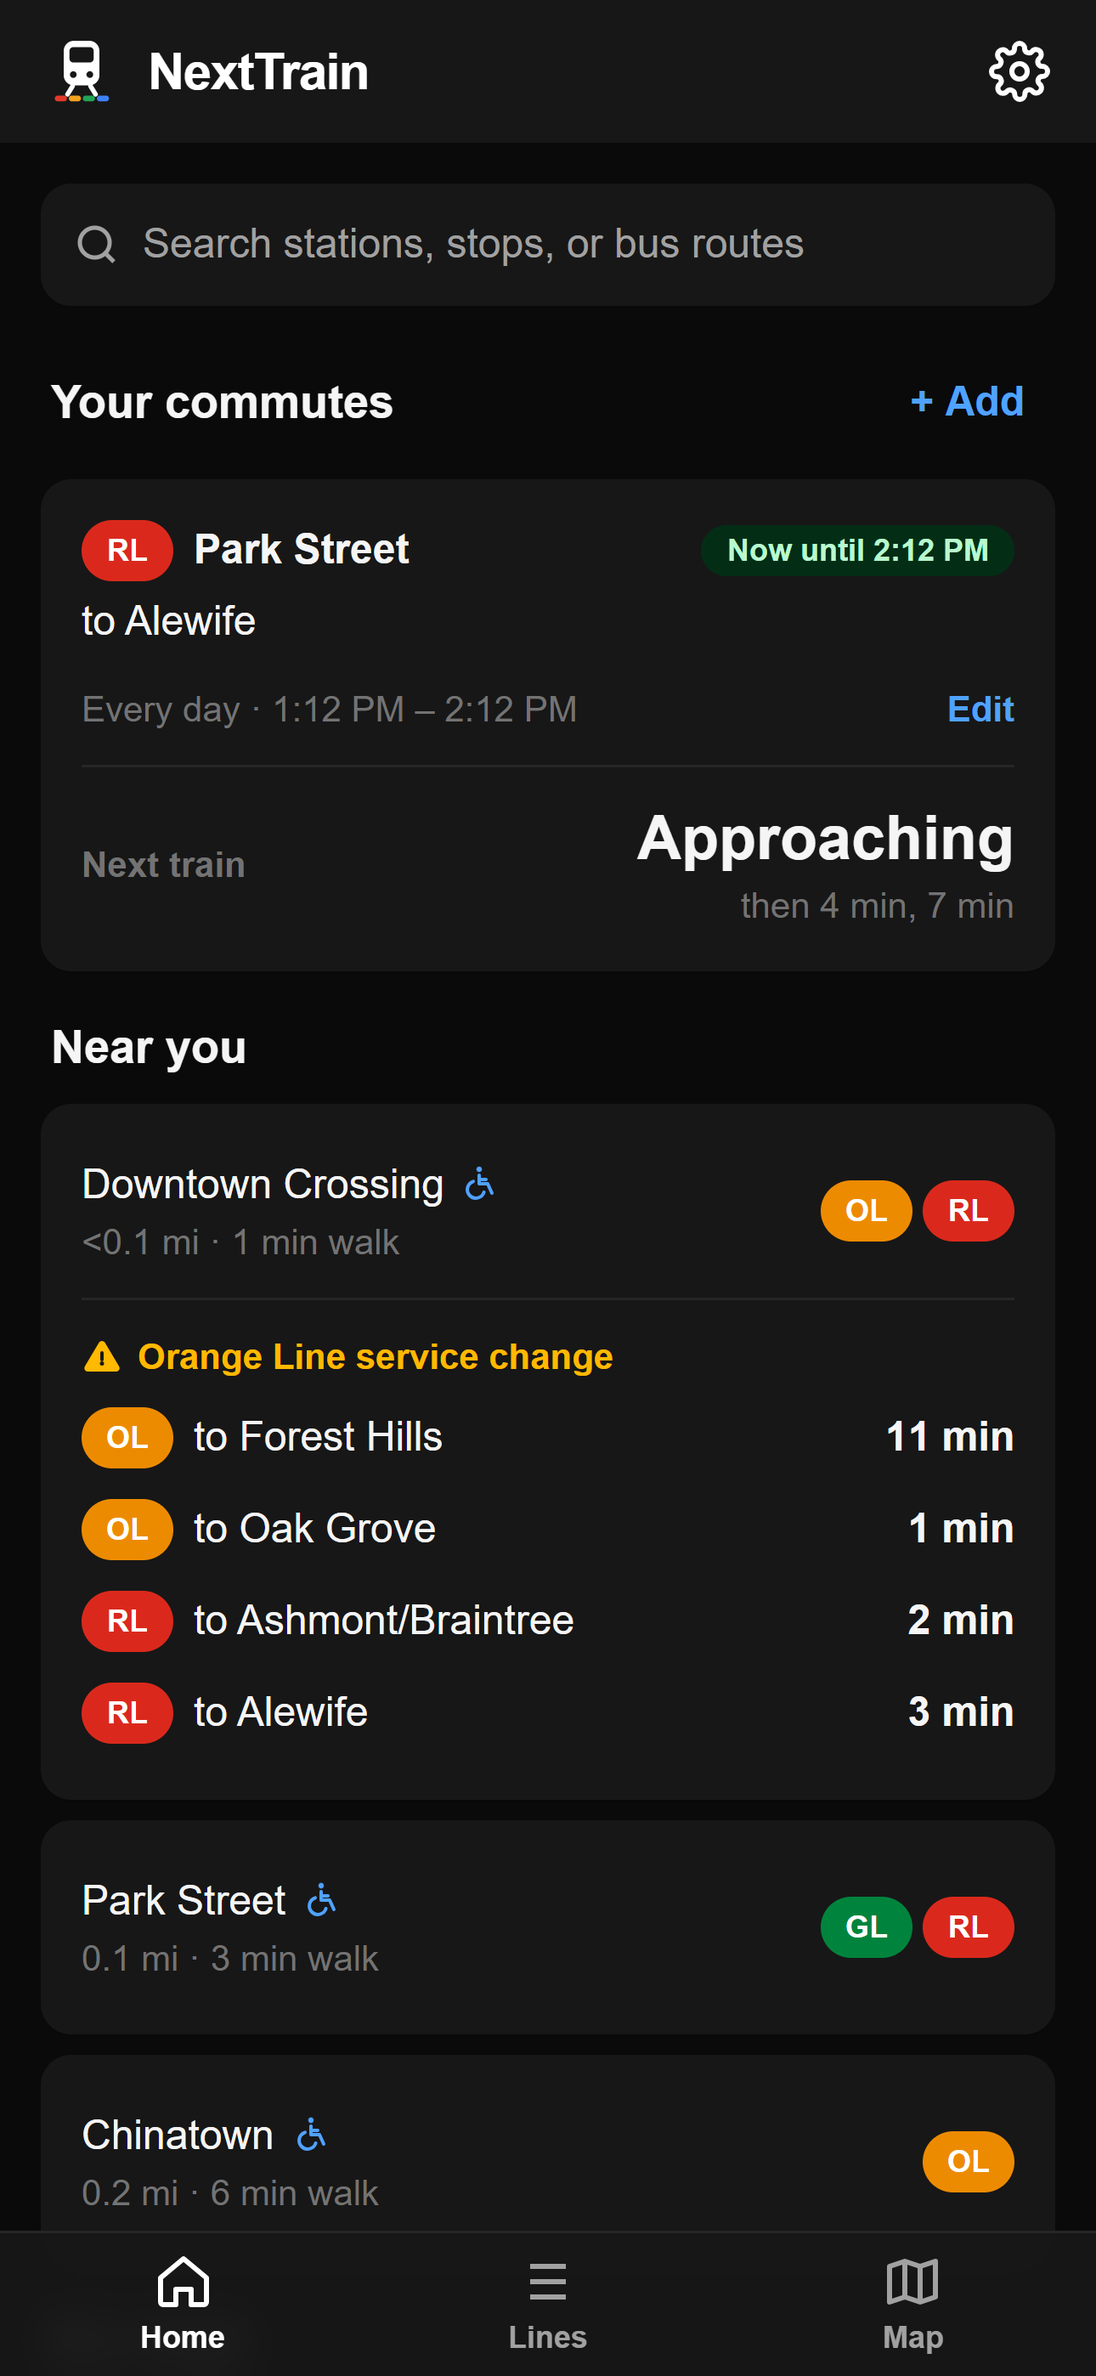
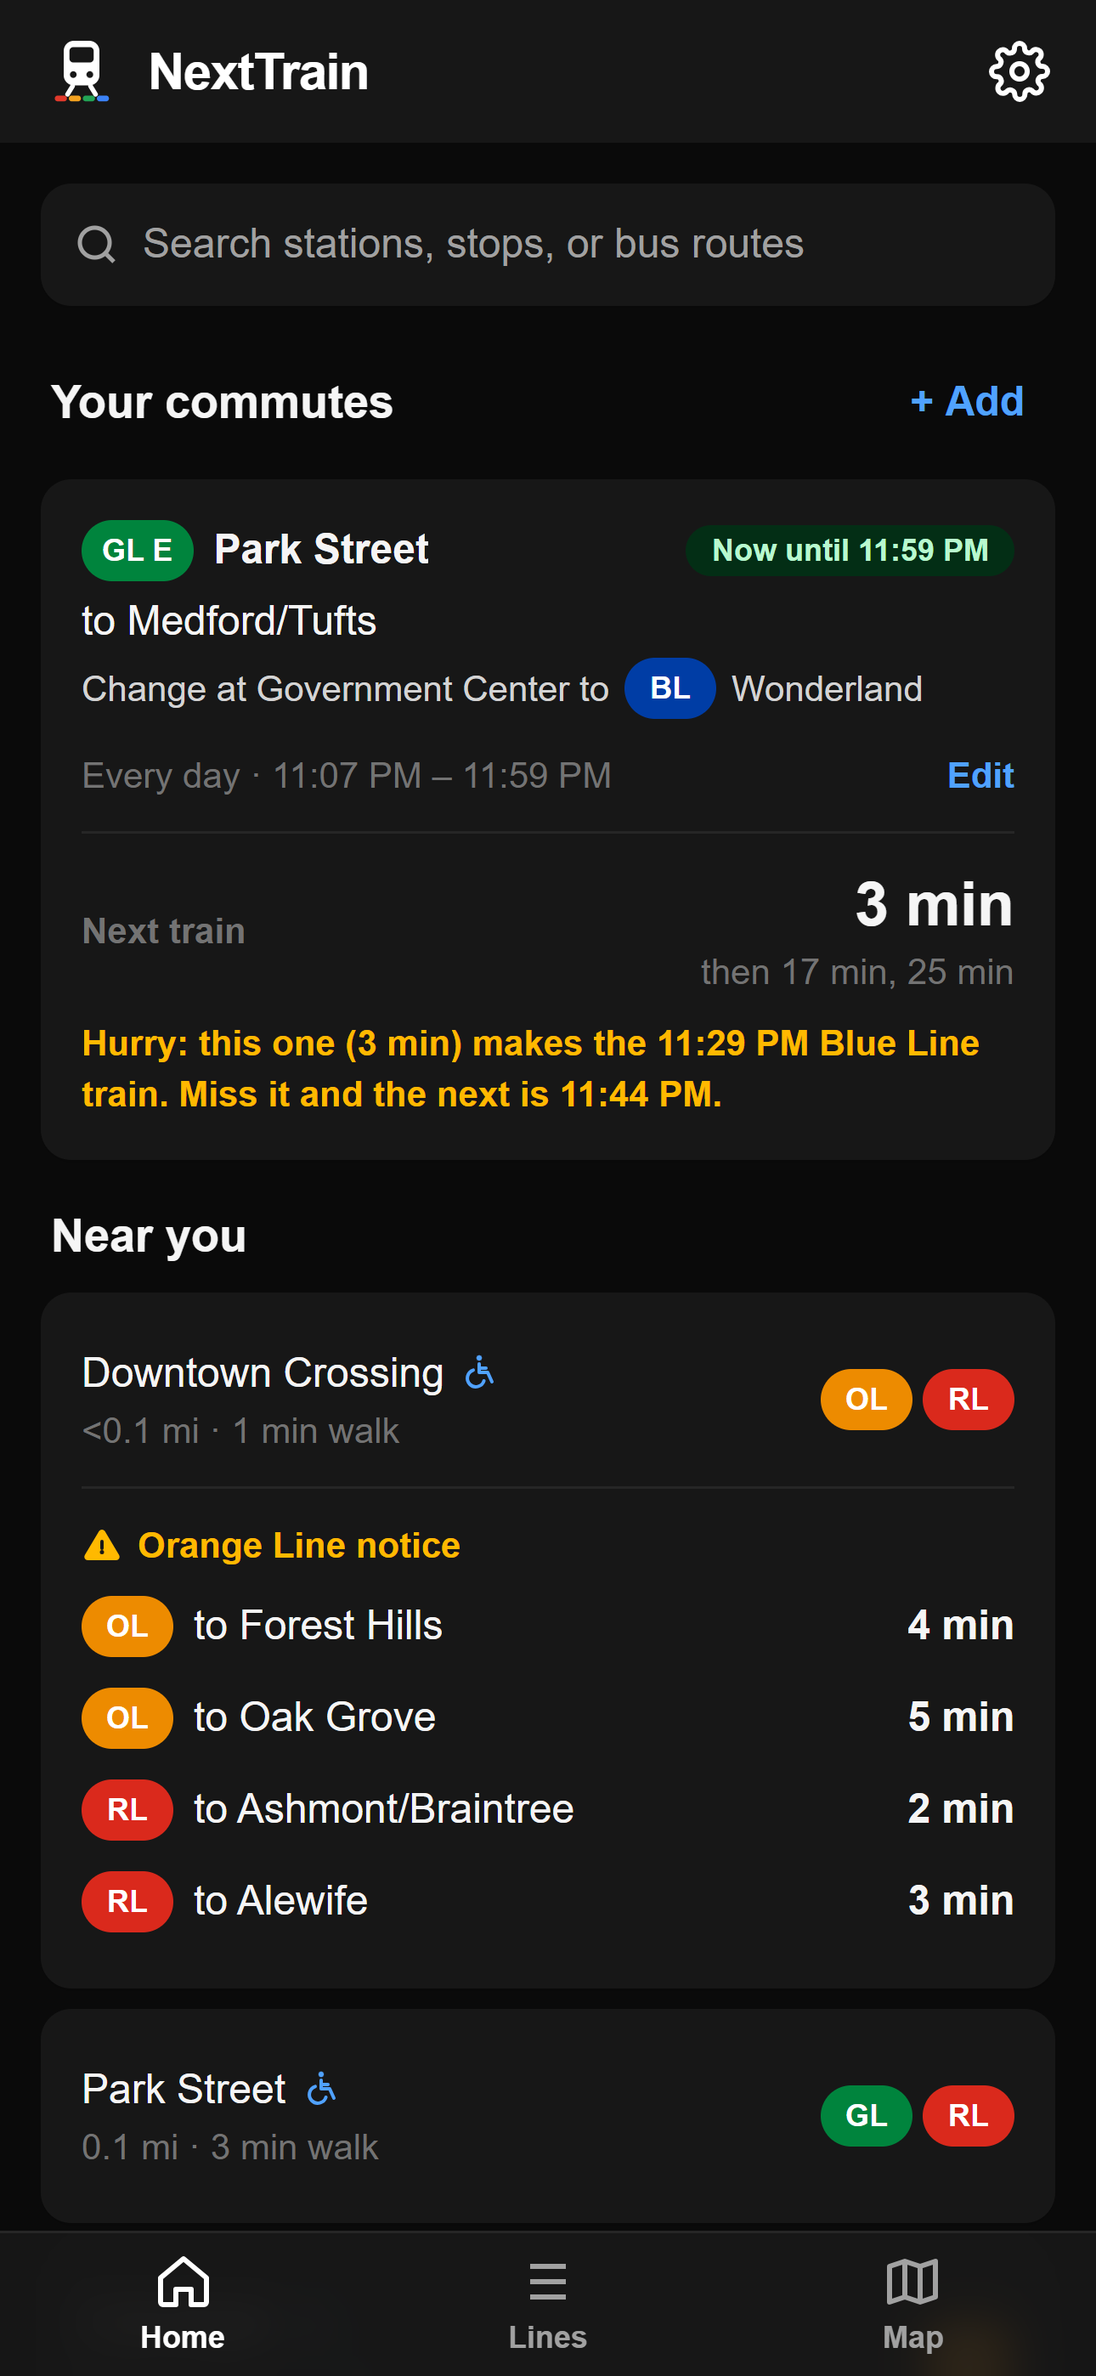
App Store 1.3: listing, What's New, 8 screenshots, review notes, and how to release 1.0 then submit 1.3
1.0 is approved (Pending Developer Release). 1.3 is the first update and includes 1.2's buses, so 1.2 is skipped.

diff --git a/docs/app-store/README.md b/docs/app-store/README.md
@@ -4,28 +4,29 @@ Everything App Store Connect asks for, drafted from what the app does today. Edi
 
 ## Screenshots
 
-For **version 1.2**: captured in dark mode from the iPhone app as built for TestFlight build 6 (native mode), with live MBTA data on Saturday, October 10, 2026, at both sizes App Store Connect asks for:
+For **version 1.3**: captured in dark mode from the iPhone app as built for TestFlight build 9 (native mode), with live MBTA data on Monday evening, October 12, 2026, at both sizes App Store Connect asks for:
 
 - `screenshots/`: 1290 × 2796, the **6.9" iPhone** slot
 - `screenshots/6.5-inch/`: 1284 × 2778, the **6.5" iPhone** slot
 
 | File | Shows |
 |---|---|
-| `1-home.png` | Home: a commute happening now with its next train, and live departures at the nearest station |
-| `2-map.png` | The live map on Apple Maps: every line, station, and train |
+| `1-home.png` | Home: a commute that changes from the Green Line to the Blue Line, with its next train and live transfer advice ("Hurry: this one makes the 11:29 PM Blue Line train"), and live departures at the nearest station |
+| `2-map.png` | The live map on Apple Maps: every line, station, and train, with the Subway | Bus switch |
 | `3-map-train.png` | Zoomed in with station names and direction arrows, and a train's card: destination, next stop, and how crowded each car is |
-| `4-map-bus.png` | Bus mode: route 66's streets, stops, and buses, and a stop's card with its next buses, **Add commute**, and **All departures** |
-| `5-station.png` | Harvard: its trains and its buses, each under its own heading |
-| `6-line-live-trains.png` | The Red Line diagram with live trains and direction arrows |
-| `7-lines.png` | Every subway line's service status (the bus routes follow below) |
+| `4-map-bus.png` | Bus mode: route 66's streets, stops, and buses, its Inbound/Outbound ends, and a stop's card with its next buses, **Add commute**, and **All departures** |
+| `5-map-inbound.png` | Inbound only: every train heading toward downtown |
+| `6-station.png` | Harvard: an escalator outage, then its trains and its buses, each under its own heading |
+| `7-line-live-trains.png` | The Red Line diagram with live trains and direction arrows |
+| `8-lines.png` | Every subway line's service status (the bus routes follow below) |
 
-To retake them, run the app locally (API on 5112, Vite on 5173) and capture at 430 × 932 and 428 × 926 CSS pixels at 3×, dark color scheme, with a commute saved that's on at the time (pick every day, since new commutes default to weekdays). Map shots need the MapKit key in user-secrets.
+To retake them, run the app locally (API on 5112, Vite on 5173) and capture at 430 × 932 and 428 × 926 CSS pixels at 3×, dark color scheme, while trains are running, with a commute saved that's on at the time (pick every day, since new commutes default to weekdays; a commute's window can't cross midnight). Map shots need the MapKit key in user-secrets.
 
 Make the app **iPhone-only** in Xcode (Supported Destinations: iPhone). Otherwise Apple also requires iPad screenshots and reviews the iPad layout.
 
 ## Listing text
 
-Updated for **version 1.2 (buses)**; 1.0 went out with the subway-only wording. The name and subtitle can change with any new version.
+Updated for **version 1.3**; 1.0 was approved with the subway-only wording. The name and subtitle can change with any new version.
 
 | Field | Draft |
 |---|---|
@@ -41,13 +42,13 @@ Updated for **version 1.2 (buses)**; 1.0 went out with the subway-only wording. 
 **Keywords** (100 max, comma-separated, no spaces needed). Keep "MBTA" out: App Review flags other companies' trademarks used as keywords (guideline 2.3.7).
 
 ```
-boston,subway,bus,train,transit,commute,red line,orange line,green line,blue line,silver line,metro
+boston,subway,bus,train,transit,commute,delay,alerts,widget,red line,orange line,green line,blue line
 ```
 
 **Promotional text** (170 max, can be changed any time without a new build):
 
 ```
-Know when your train or bus leaves. Live departures, alerts, and your daily commute at a glance, for every subway station and bus stop in Boston.
+Know when your train or bus leaves, and whether to hurry for your transfer. Live times, delay alerts, and your commute on your Home Screen, for all of Boston's T.
 ```
 
 **Description** (4,000 max):
@@ -58,8 +59,17 @@ NextTrain shows live times for Boston's subway and buses, built for the trip you
 YOUR COMMUTE, AT A GLANCE
 Save the trips you take: your station, line, direction, and the time you usually leave. When it's time to go, the next train is waiting on the home screen, with any delay or suspension that affects it.
 
+MAKE YOUR TRANSFER
+Change lines on the way? Add the station where you change and NextTrain tells you, live, whether to hurry for this train or relax because the next one makes the same connection.
+
+DELAY ALERTS
+Turn on delay alerts and NextTrain notifies you when a suspension, closure, or long delay hits one of your commutes, from 30 minutes before you leave.
+
+YOUR COMMUTE ON YOUR HOME SCREEN
+Add the NextTrain widget to your Home Screen or Lock Screen to see your next train without opening the app, and follow it in Live Activities.
+
 LIVE DEPARTURES
-Every station and bus stop shows its next trains and buses for each route and direction, counting down in real time and refreshing every 10 seconds.
+Every station and bus stop shows its next trains and buses for each route and direction, counting down in real time and refreshing every 10 seconds. Late at night and early in the morning, when nothing is predicted yet, you see the timetable times instead.
 
 BUSES TOO
 All 150 MBTA bus routes, Silver Line included. Find a route by its number ("66", "SL1"), see its stops in order and its buses moving along them, and save a bus commute. Each side of the street is its own stop, and NextTrain tells you which way each one goes.
@@ -68,10 +78,10 @@ NEAR YOU
 See the closest stations and bus stops, how far a walk they are, and the next trains and buses at the nearest ones. Your location never leaves your phone.
 
 SERVICE ALERTS
-Delays, shuttle buses, suspensions, and station closures appear on the lines, stations, and commutes they affect.
+Delays, shuttle buses, suspensions, and station closures appear on the lines, stations, and commutes they affect. Planned changes for the next two weeks show on each line, and each station lists its elevator and escalator outages.
 
 LIVE LINE DIAGRAMS AND MAP
-Watch every train move along its line, or across the whole system on the map, with arrows showing which way each one is heading. Zoom in to see station names, filter to a single line or Green Line branch, or pick a bus route to see its streets, stops, and buses.
+Watch every train move along its line, or across the whole system on the map, with arrows showing which way each one is heading. Zoom in to see station names, filter to a single line or Green Line branch, show only inbound or outbound trains, or switch to buses to see a route's streets, stops, and buses.
 
 HOW FULL IS IT?
 Tap a train or bus on the map to see where it's headed and, where the MBTA reports it, how crowded it is (for trains, car by car).
@@ -80,28 +90,27 @@ SEARCH THAT GETS YOU
 "harvard sq", "park st", "gov ctr": type it the way you say it.
 
 PRIVATE BY DESIGN
-No account, no ads, no tracking. Your commutes are saved under a random ID, and Settings → Delete my data erases everything.
+No account, no ads, no tracking. Your commutes are saved under a random ID, delay alerts are off until you turn them on, and Settings → Delete my data erases everything.
 
 Live data comes from the MBTA. NextTrain is an independent app and isn't affiliated with or endorsed by the MBTA.
 ```
 
-**What's New in Version 1.2** (4,000 max):
+**What's New in Version 1.3** (4,000 max). Riders are updating from 1.0, so this covers 1.2's buses too:
 
 ```
-Buses are here. All 150 MBTA bus routes, Silver Line included:
-- Search for a route by number ("66", "SL1") or a stop by street
-- Bus stops near you, with the next buses at the closest one
-- Every route's stops in order, with its buses moving along them
-- On the map, tap Bus to see every route, then tap any stop for its next buses, or to save it as your commute
-- Save a bus commute, with Live Activities on your Lock Screen
+Buses are here, plus a lot more for your daily commute.
 
-Also new:
-- A calmer map: trains are simple dots until you zoom in, and the map appears all at once
-- Your location stays visible when you pick a line on the map
-- Getting started is easier: a short welcome, a Get started card, and a step-by-step commute form
+- Buses: all 150 MBTA routes, Silver Line included. Search by number ("66", "SL1"), see stops near you, and save a bus commute.
+- Transfer advice: add where you change lines, and NextTrain tells you whether to hurry for this train or take the next one.
+- Delay alerts: get notified when a suspension, closure, or long delay hits one of your commutes.
+- Widget: your next train on your Home Screen and Lock Screen.
+- Map: switch between Subway and Bus, show only inbound or outbound trains, and tap any stop to save it as a commute.
+- Scheduled times late at night and early in the morning, when nothing is predicted yet.
+- Planned changes for the next two weeks on each line, and elevator and escalator outages at each station.
+- A calmer map, an easier start, and many smaller fixes.
 ```
 
-What's New only shows for updates. If 1.2 ends up being the first version released (see below), App Store Connect doesn't ask for it.
+What's New only shows for updates, so it's asked for from 1.3 on (1.0 is the first release).
 
 ## App Privacy answers
 
@@ -126,7 +135,7 @@ App Review asked new developer accounts for this under Guideline 2.1 (October 20
 
 ```
 1. PURPOSE AND AUDIENCE
-NextTrain is a free app for people who ride Boston's subway (the MBTA Red, Orange, Blue, Green, and Mattapan lines) and, from version 1.2, its buses (all 150 routes, Silver Line included). It answers "when is my next train?" quickly: live departures for every subway station, service alerts, a live map and line diagrams showing where each train is, and saved daily commutes that show your next train on the Home screen when it's time to go. No account, no ads, no in-app purchases.
+NextTrain is a free app for people who ride Boston's subway (the MBTA Red, Orange, Blue, Green, and Mattapan lines) and, from version 1.2, its buses (all 150 routes, Silver Line included). It answers "when is my next train?" quickly: live departures for every subway station, service alerts, a live map and line diagrams showing where each train is, and saved daily commutes that show your next train on the Home screen when it's time to go, with advice on making a transfer, optional delay notifications, and a Home Screen widget. No account, no ads, no in-app purchases.
 
 2. SETUP AND HOW TO USE IT
 No login or account is needed, and there is nothing to set up.
@@ -138,12 +147,17 @@ No login or account is needed, and there is nothing to set up.
 - Commutes: Home -> Add a commute. Saved commutes are private to the device (stored under a random ID, not shared with anyone).
 - Data deletion: Settings -> Delete my data removes saved commutes from our server and clears local data. Help & support is in Settings.
 - Live Activities (version 1.1 and later): Settings -> Preview Live Activity, then lock the phone.
-- Buses (version 1.2 and later): search a route number such as "66" or "SL1", or open Lines -> Buses. On the Map, the Bus chip shows one route's streets, stops, and live buses. Tap a bus stop for its next buses.
+- Buses (version 1.2 and later): search a route number such as "66" or "SL1", or open Lines -> Buses. On the Map, the Bus switch shows one route's streets, stops, and live buses. Tap a bus stop for its next buses.
+- Map direction (1.3): under the line picker, Inbound or Outbound shows only the trains or buses going that way (toward or away from downtown Boston).
+- Transfers (1.3): Home -> Add a commute -> Park Street, Green Line, toward Medford/Tufts -> Add a transfer -> Government Center, Blue Line, toward Wonderland -> Save. While the commute is on, its card says whether to hurry for this train or take the next one.
+- Delay alerts (1.3): with a commute saved, Home asks "Get delay alerts?" once (or Settings -> Notifications -> Delay alerts). A notification arrives only when the MBTA reports a suspension, closure, or long delay on that commute's line and station, from 30 minutes before it starts, so one may not arrive during review.
+- Widget (1.3): long-press the Home Screen -> + -> NextTrain. It shows the next trains for the commute that's on or next.
 There is no user-generated content visible to others and no paid content.
 
 3. EXTERNAL SERVICES
 - MBTA V3 API (Massachusetts Bay Transportation Authority): real-time predictions, vehicle positions, alerts, and station data, used under the MassDOT Developer License Agreement.
 - Apple MapKit JS: the map. Our server issues short-lived MapKit tokens.
+- Apple Push Notification service: delay alerts, sent only to riders who turn them on.
 - Microsoft Azure: our API (Azure Container Apps), database for saved commutes (Azure SQL), and website (Azure Static Web Apps).
 - Cloudflare: DNS and email forwarding for longledev.com, and protection of the website and API from attacks and automated abuse.
 The app uses no third-party sign-in, payment, advertising, analytics, or AI services.
@@ -157,7 +171,7 @@ NextTrain is not in a regulated industry. Transit data is public MBTA data used 
 
 ### Screen recording
 
-Record on a real iPhone running the latest iOS, with the build that's in review (TestFlight), starting from the Home Screen. About 2 minutes:
+Record on a real iPhone running the latest iOS, with the build that's in review (TestFlight), starting from the Home Screen. About 3 minutes:
 
 1. Tap the NextTrain icon (the recording must show the launch).
 2. Welcome screen → **Agree and continue**.
@@ -166,7 +180,11 @@ Record on a real iPhone running the latest iOS, with the build that's in review 
 5. **Lines** → Red Line → trains moving on the diagram.
 6. **Map** → zoom in (station names) → tap a train (destination, crowding) → a Green Line branch.
 7. Home → **Add a commute** (e.g. Park Street, Red Line, toward Alewife, weekdays) → Save → the commute card with its next train.
-8. Settings → Help & support → back → **Delete my data** → confirm.
+8. Edit that commute → **Add a transfer** (Government Center, Blue Line, toward Wonderland) → Save → the transfer advice on its card.
+9. **Get delay alerts?** → **Turn on** → Allow.
+10. **Map** → **Inbound**.
+11. Home Screen: long-press → **+** → NextTrain → add the widget.
+12. Settings → Help & support → back → **Delete my data** → confirm.
 
 Upload the .mov as an attachment to the reply in App Store Connect.
 
@@ -191,21 +209,23 @@ Upload the .mov as an attachment to the reply in App Store Connect.
    For the Simulator against your local API, use `VITE_API_URL=http://localhost:5112` instead (the app allows local-network HTTP for this).
 4. **Ship to TestFlight first** and try it on the subway, including the offline banner in a tunnel.
 
-## Submitting version 1.2
+## Releasing 1.0, then submitting 1.3
 
-Version 1.2 is **TestFlight build 6** (uploaded October 10, 2026): buses, the rider-feedback fixes, and the map's bus routes and stop cards. Submit it once your testers are happy. Everything built after build 6 is 1.3.
+**1.0 is approved.** Its status, **Pending Developer Release**, means Apple approved it and is waiting for you, because it was set to release manually. Click **Release This Version** and it's on the App Store within about 24 hours, subway-only, as approved.
 
-**While 1.0 is still in review,** App Store Connect won't take a second version. Choose one:
-
-- **Let 1.0 finish (simplest).** When it's approved, follow the steps below for an update.
-- **Or replace it with 1.2.** If 1.0 has been waiting more than about a week, open version 1.0 in App Store Connect and choose **Remove from Review**. Until the app's first release, you can then change that version's number to **1.2** and follow steps 2–5 below. You give up 1.0's place in the queue, but riders get buses on day one.
+**Then 1.3 is the first update.** It includes everything from 1.2 (buses), so 1.2 is skipped. Before you submit:
+1. **Turn on delay alerts on the server:** set the APNs key in Azure (the commands are in PR #83, "Your steps"). Without it, a reviewer can turn alerts on and never get one.
+2. **Try the latest TestFlight build on your phone:** a transfer commute, the map's Inbound/Outbound switch, delay alerts on, and the widget.
 
 **Steps:**
-1. App Store Connect → **Apps → NextTrain → +** (next to iOS App) → **1.2**.
-2. **Build:** choose **1.2 (6)**.
-3. **Text:** paste the 1.2 name, subtitle, promotional text, description, keywords, and What's New from *Listing text* above. The name and subtitle can change with any version.
-4. **Screenshots:** in **iPhone 6.9" Display**, remove the old ones and drag in the 7 files from `screenshots/` in order. Do the same for **6.5" Display** with `screenshots/6.5-inch/`.
-5. **App Review Information:** the notes below already cover buses. Then **Add for Review → Submit**. Choose **Manually release** if you want to pick the moment it goes live.
+1. App Store Connect → **Apps → NextTrain → +** (next to iOS App) → **1.3**.
+2. **Build:** choose the newest **1.3** build (build 9 or later).
+3. **Text:** paste the promotional text, description, keywords, and **What's New in Version 1.3** from *Listing text* above.
+4. **Screenshots:** in **iPhone 6.9" Display**, remove the old ones and drag in the 8 files from `screenshots/` in order. Do the same for **6.5" Display** with `screenshots/6.5-inch/`.
+5. **App Privacy** (Apps → NextTrain → App Privacy → Edit): add **Identifiers → Device ID** and **Diagnostics → Crash Data**, as in *App Privacy answers* above, then **Publish**.
+6. **App Review Information:** paste the review notes above, which cover 1.3. Then **Add for Review → Submit**. Choose **Manually release** if you want to pick the moment it goes live.
+
+An update's review usually takes 1 to 3 days.
 
 ## Protecting yourself
 
